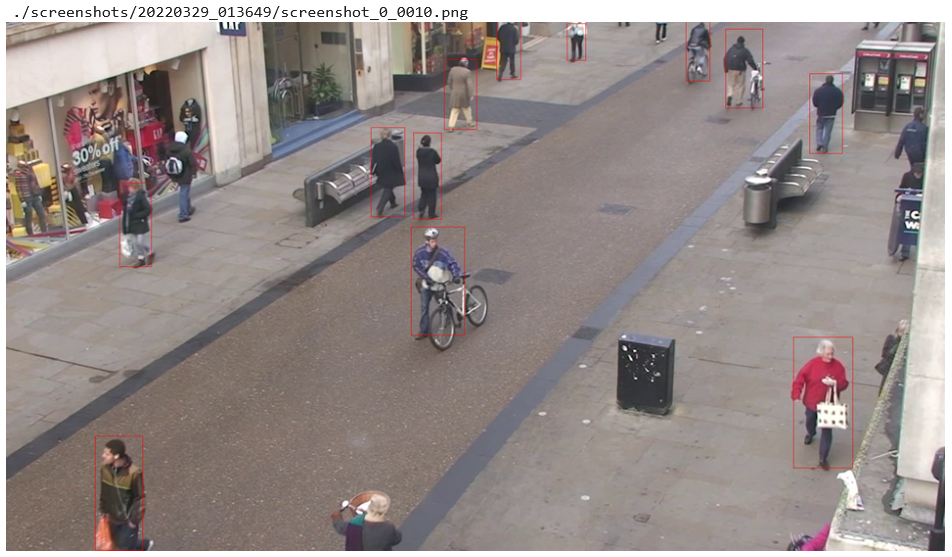
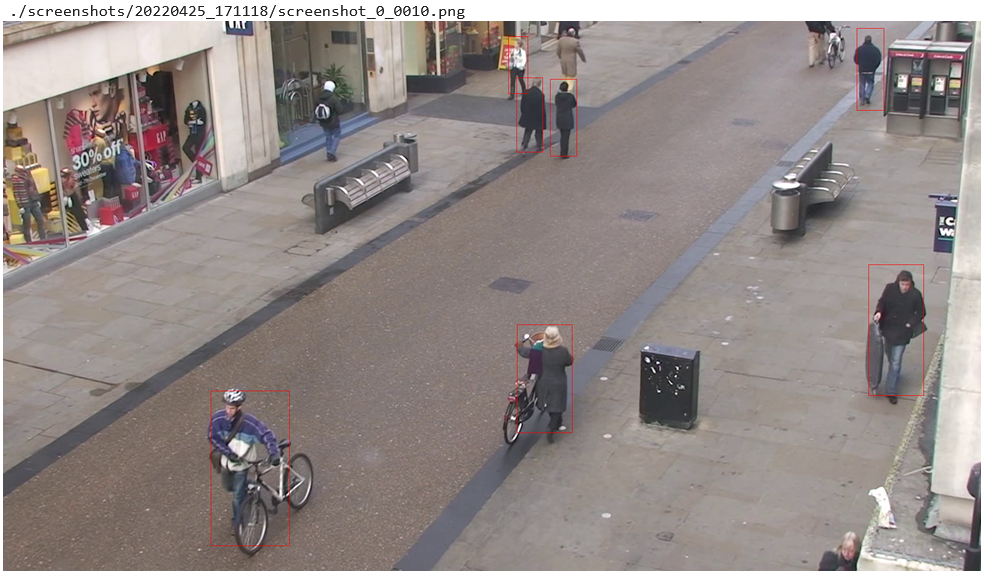
Updated README
* Fixed paths in README.
* Adding 2 screenshots of object tracking.

Changed region(s): [[0.0, 0.0, 1.0, 1.0], [0.6397, 0.6104, 0.7311, 0.763], [0.6092, 0.8851, 0.6397, 0.9156]]

diff --git a/labs/2. Object tracking/README.md b/labs/2. Object tracking/README.md
@@ -165,8 +165,8 @@ In this Lab, we start with importing existing People detection application. You 
     \
     --video-file {video_filepath} \
     --video-start 0 \
-    --video-stop 10 \
-    --video-step 1 \
+    --video-stop 100 \
+    --video-step 10 \
     \
     --output-screenshots ./screenshots/%Y%m%d_%H%M%S
     ```
@@ -174,7 +174,7 @@ In this Lab, we start with importing existing People detection application. You 
     Please confirm that you see following log in the output cell. The simulation should quickly finish because you specified `--video-stop 10`. This means simulation ends after 10 frames.
 
     ```
-    Loading graph: ./lab1/graphs/lab2/graph.json
+    Loading graph: ./lab2/graphs/lab2/graph.json
         :
         :
     Frame : 0
@@ -216,7 +216,7 @@ In this section, we will extend the People detection application to People track
 
 1. Create a new python source file `simple_object_tracker.py` and define `SimpleObjectTracker` class in it.
 
-    1. Using the file browser pane, browse to "lab1/lab2/packages/{account_id}-lab2_code-1.0/src/". You should see `app.py` already.
+    1. Using the file browser pane, browse to "./lab2/packages/{account_id}-lab2_code-1.0/src/". You should see `app.py` already.
 
     1. From the menu bar, select "File" > "New" > "Text File". A new empty text file "untitled.txt" is created.
 
@@ -548,22 +548,29 @@ In this section, we will extend the People detection application to People track
     --output-screenshots ./screenshots/%Y%m%d_%H%M%S
     ```
 
-1. View the generated screenshot.
+1. View the generated screenshots.
 
     As same as last time, let's see generated screenshot. Please confirm that you see bounding boxes in multiple colors. You can open different screenshot files in the same directory to confirm that the application used same color for same object across multple frames.
 
     ``` python
-    # View latest screenshot image
-
+    # View 1st and last frame image with Object Tracking
     latest_screenshot_dirname = sorted( glob.glob( "./screenshots/*" ) )[-1]
-    screenshot_filename = sorted( glob.glob( f"{latest_screenshot_dirname}/*.png" ) )[-1]
 
+    # This is the 1st frame 
+    screenshot_filename = sorted( glob.glob( f"{latest_screenshot_dirname}/*.png" ) )[0]
     print(screenshot_filename)
     IPython.display.Image( filename = screenshot_filename )
     ```
 
-    > FIXME : replace with different video / screenshot which demonstrate the object tracking capability
+    ``` python
+    # This is the 10th frame 
+    screenshot_filename = sorted( glob.glob( f"{latest_screenshot_dirname}/*.png" ) )[-1]
+    print(screenshot_filename)
+    IPython.display.Image( filename = screenshot_filename )
+    ```
+
     ![](images/people-tracking-output.png)
+    ![](images/people-tracking-output2.png)
 
 
 ## Run the people tracking application on real device
